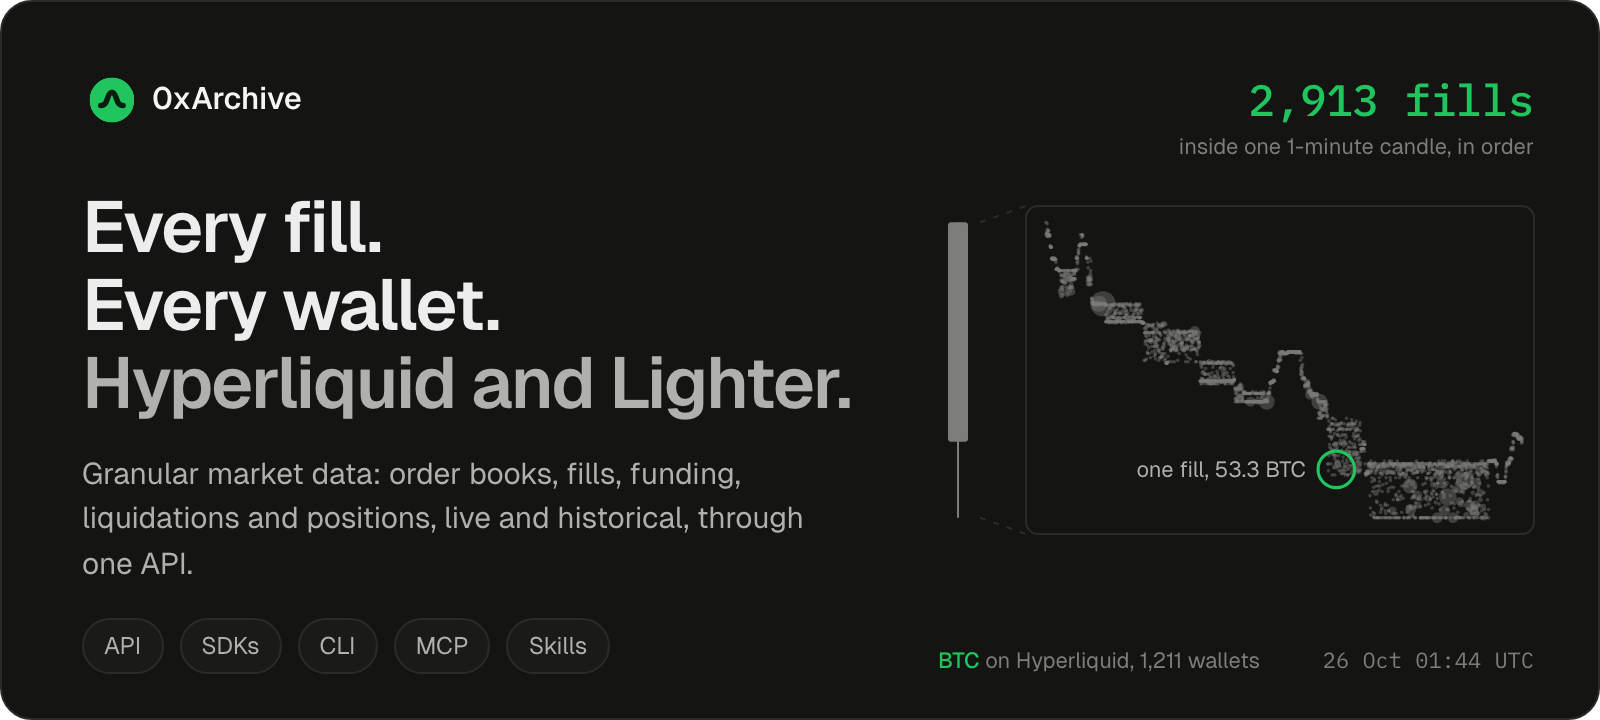
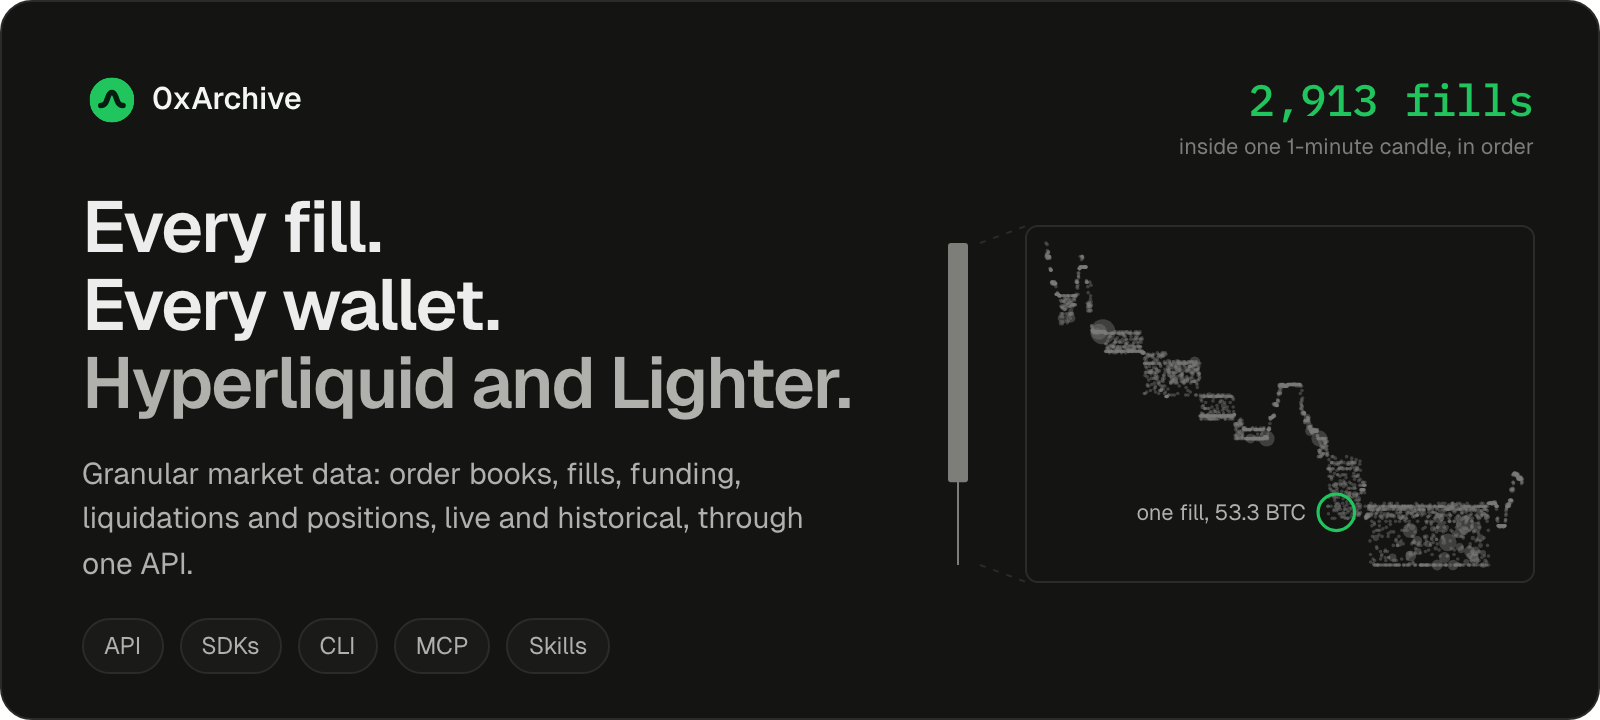
README: drop the dated captions from the hero and the intro

diff --git a/profile/README.md b/profile/README.md
@@ -11,8 +11,6 @@
 
 Granular market data infrastructure for Hyperliquid and Lighter: live and historical order books down to the single order, every fill, funding, open interest, liquidations and every wallet's positions, through one API.
 
-<sub>The chart: BTC on Hyperliquid, 2026-10-26 01:44 UTC. A candle shows one bar for that minute; trade history returns 2,913 fills from 1,211 wallets.</sub>
-
 ## Pick your route
 
 | You want to | Repo | Start with |
